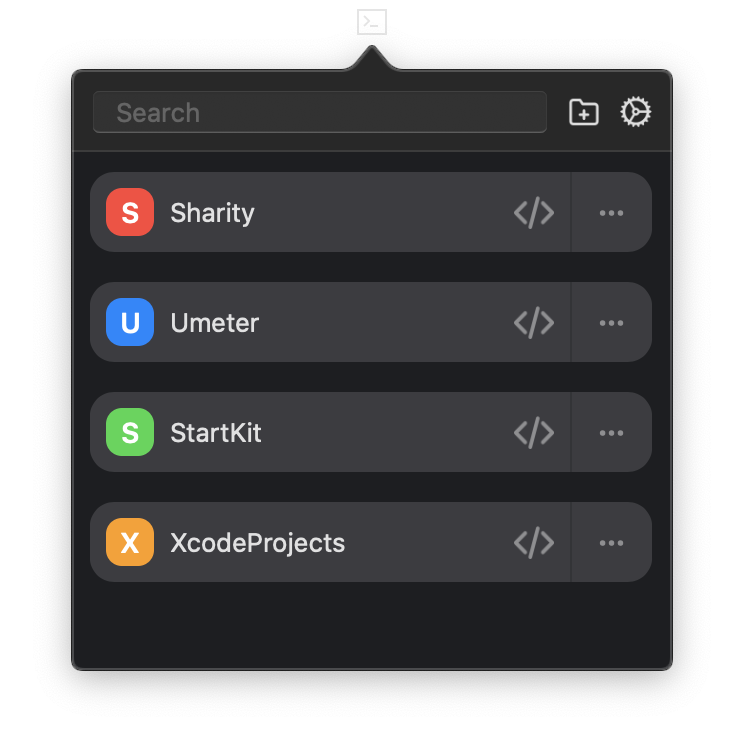
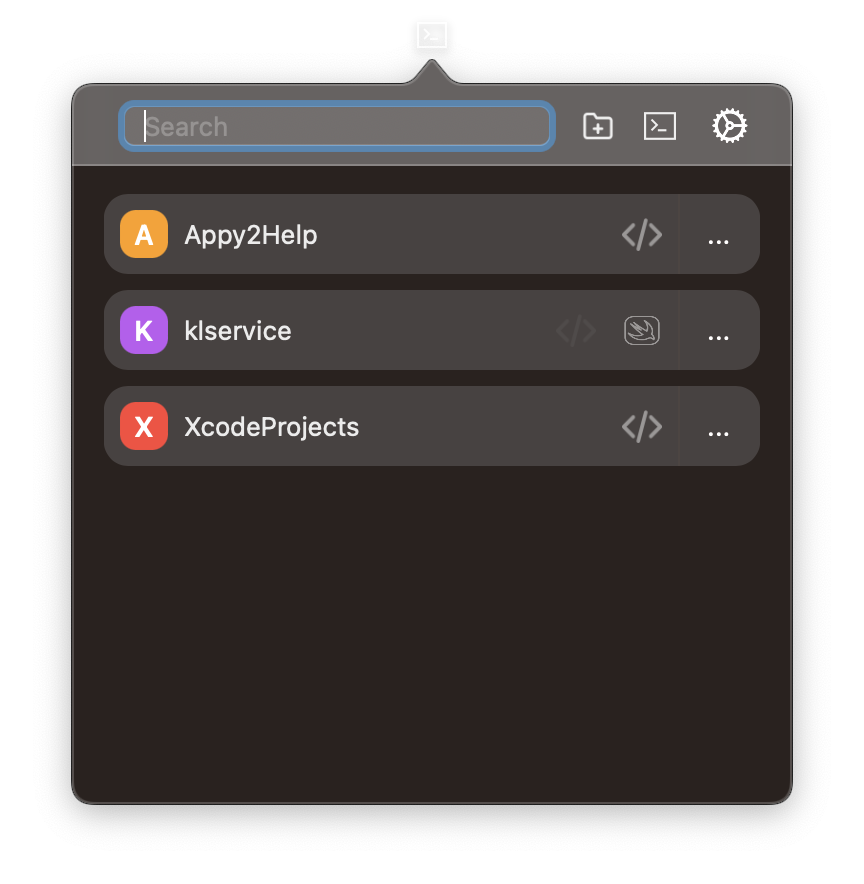
adding instructions to readme file

diff --git a/README.md b/README.md
@@ -2,6 +2,7 @@
 Switch between projects in 2 clicks. Don't write "pod install", "pod update" and "cd <your project>" in the terminal anymore!<br />
 **NEW**: Remove derived data of particular project!
 **NEW**: Add your custom commands for a project! 
+**NEW**: Open Package.swift file!
   
 # When do you need this tool
 - you want to **open** quickly specific **Xcode project** or **Package.swift** file
@@ -43,6 +44,8 @@ click "+" button to add folder of you project within system dialog (Hint: choose
 ![alt text](Images/example_list_of_projects_light.png?raw=true)
 
 **Click "arrows" button to open your Xcode workspace/project**
+
+**Click "swift" button to open your Package.swift in Xcode**
 
 **Click "..." button to see the menu options** 
 
